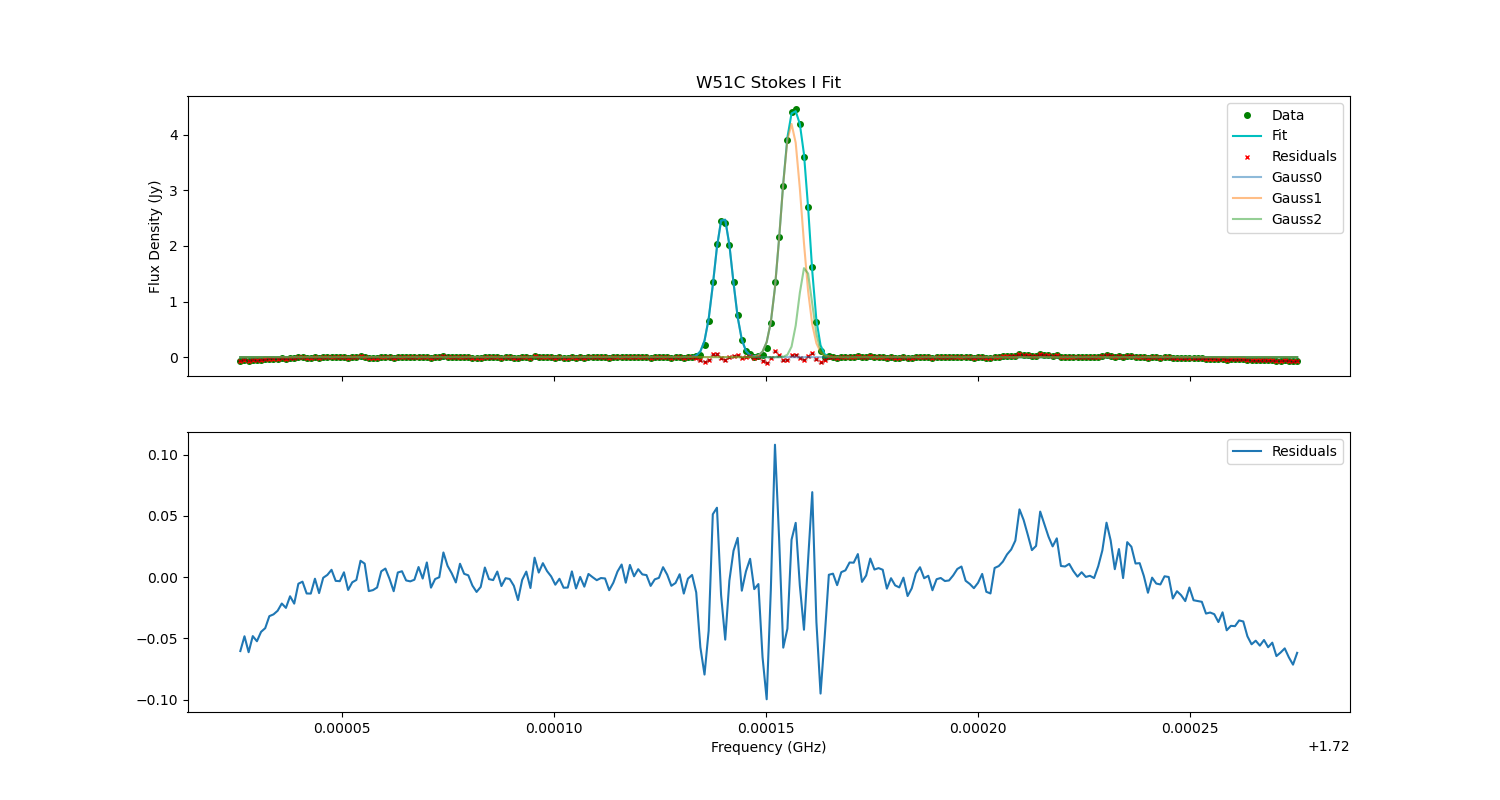
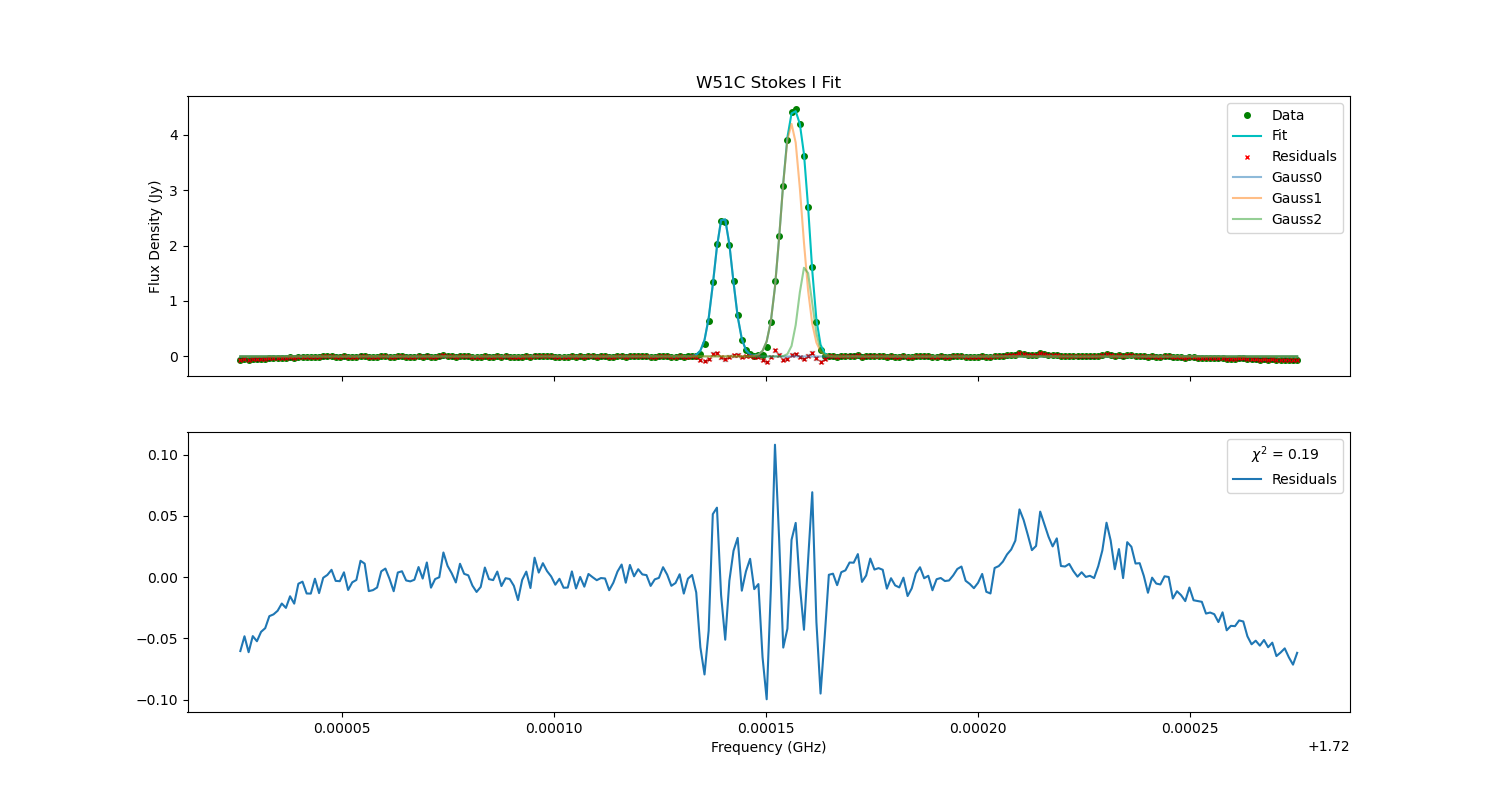
Finished Zeeman.py script

Changed region(s): [[0.1533, 0.4375, 0.8587, 0.4688], [0.828, 0.5625, 0.8893, 0.625]]

diff --git a/Zeeman.py b/Zeeman.py
@@ -5,7 +5,8 @@ parser.add_argument('pixel', type=int, nargs=2, help='Pixel coordinates of the r
 parser.add_argument('--mapping', type=int, nargs='+', help='Number of Gaussian components to fit each visible peak')
 parser.add_argument('--output', type=str, default=None, help='Output directory')
 parser.add_argument('--init', action='store_true', help='Visualize the position of initial guesses')
-parser.add_argument('--plot', action='store_true', help='Plot the results')
+parser.add_argument('--plotI', action='store_true', help='Plot individually the stokes I results')
+parser.add_argument('--plotV', action='store_true', help='Plot individually the stokes V results')
 # parser.add_argument('--verbose', action='store_true', help='Print out the results')
 parser.add_argument('--trace', action='store_true', help='Plot trace plots')
 parser.add_argument('--corner', action='store_true', help='Plot corner plots')
@@ -38,6 +39,8 @@ import numpy as np
 import matplotlib.pyplot as plt
 from astropy.io import fits
 from scipy.signal import find_peaks
+import arviz as az
+az.style.use("arviz-darkgrid")
 
 # Read information from FITS files
 I_hdu = fits.open(args.filename[0])
@@ -68,10 +71,12 @@ if args.output == None:
 else: 
     Path(args.output).mkdir(parents=True, exist_ok=True)
     cwd = args.output + '/'
+out_file = open(cwd + 'output.txt', 'w')
 
 guess = guess_gen(I, args.mapping)
 num = len(guess) // 3
-noise = np.std(np.concatenate((I[:int(guess[1] - guess[2])], I[int(guess[-2] + guess[-1]):])), ddof = 1)
+noise_I = np.std(np.concatenate((I[:int(guess[1] - 6*guess[2])], I[int(guess[-2] + 6*guess[-1]):])), ddof = 1)
+noise_V = np.std(np.concatenate((V[:int(guess[1] - 6*guess[2])], V[int(guess[-2] + 6*guess[-1]):])), ddof = 1)
 
 if(args.init):
     plt.plot(I)
@@ -82,6 +87,7 @@ if(args.init):
 import pymc as pm
 I_model = pm.Model()
 xs = np.arange(len(I))
+
 with I_model as model:
     xdata = pm.ConstantData("x", xs)
     # Priors for unknown model parameters
@@ -91,11 +97,20 @@ with I_model as model:
 
     gauss_sum = np.sum([amp[i] * pm.math.exp(-0.5 * ((xdata - mu[i]) / sigma[i]) ** 2) for i in range(num)], axis=0)
     # Likelihood (sampling distribution) of observations
-    likelihood = pm.Normal("y", mu=gauss_sum, observed=I, sigma=noise)
+    likelihood = pm.Normal("y", mu=gauss_sum, observed=I, sigma=noise_I)
 
     # inference
-    trace = pm.sample(draws=10_000, tune=5_000, cores = 24, chains = 24, discard_tuned_samples=False, step = pm.NUTS(),
+    trace = pm.sample(draws=10_000, tune=5_000, cores = 24, chains = 24, discard_tuned_samples=True, step = pm.NUTS(),
                       initvals={'amp': guess[0::3], 'mu': guess[1::3], 'sigma': guess[2::3]})
+
+if args.trace: 
+    axes = az.plot_trace(trace, compact=False);
+    fig = axes.ravel()[0].figure
+    fig.savefig(cwd + 'I_trace.png')
+
+if args.corner:
+    import corner
+    corner.corner(trace, quantiles=[0.16, 0.5, 0.84], show_titles=True, title_fmt = '.4e').savefig(cwd + 'I_corner.png');
 
 post = trace.posterior
 mean = post.mean(dim=["chain", "draw"])
@@ -112,16 +127,101 @@ axs[0].set(title=name + " Stokes I Fit", ylabel = "Flux Density (Jy)")
 axs[0].plot(x_axis, I, 'o', color = 'green', label = 'Data', markersize = 4)
 axs[0].plot(x_axis, model, label = 'Fit', color = 'c')
 axs[0].plot(x_axis, I - model, 'x', markersize = 3, color = 'red', label = 'Residuals')
-axs[0].errorbar(x_axis, I - model, yerr = 0.01, fmt = 'none', ecolor = 'k', elinewidth = 1, capsize = 2, alpha = 0.2)
+axs[0].errorbar(x_axis, I - model, yerr = noise_I, fmt = 'none', ecolor = 'k', elinewidth = 1, capsize = 2, alpha = 0.2)
 
 for i in range(num):
     axs[0].plot(x_axis, amp[i] * np.exp(-((x - mu[i]) ** 2) / (2 * sig[i] ** 2)), label = f'Gauss{i}', alpha = 0.5)
-    print('Amp:' , f"{amp[i]:.2f}", 'Center:', f"{mu[i]:.2f}", 'Width:', f"{sig[i]:.2f}", sep='\t') # Print to file
+    print('Amp:' , f"{amp[i]:.2f}", 'Center:', f"{mu[i]:.2f}", 'Width:', f"{sig[i]:.2f}", sep='\t', file=out_file) # Print to file
+    print('Amp:' , f"{amp[i]:.2f}", 'Center:', f"{mu[i]:.2f}", 'Width:', f"{sig[i]:.2f}", sep='\t')
 
 axs[0].legend()
 axs[1].plot(x_axis, (I - model), label = 'Residuals')
 axs[1].set(xlabel = "Frequency (GHz)")
-axs[1].legend()
+axs[1].legend(title=f'$\chi^2$ = {np.sum((I - model)**2):.2f}')
+print('Chi2:', np.sum((I - model)**2), file = out_file)
 print('Chi2:', np.sum((I - model)**2))
 fig.savefig(cwd + 'I_fit.png')
 I_fit = model
+
+stokesVmodel = pm.Model()
+compoments = np.array([amp[i] * np.exp(-0.5 * ((xs - mu[i]) / sig[i]) ** 2) for i in range(num)])
+
+with stokesVmodel as model:
+    Ifit = pm.Data("I", I_fit)
+    d_I = pm.Data("d_I", np.gradient(compoments, d_nu, axis = 1))
+    alpha = pm.Flat("alpha", shape = 1)
+    beta = pm.Flat("beta", shape = num)
+    V_fit = alpha * Ifit + pm.math.sum([beta[i] * d_I[i] for i in range(num)], axis=0)
+    V_likelihood = pm.Normal("V", mu=V_fit, observed=V, sigma=0.01)
+    
+    V_trace = pm.sample(draws=10_000, tune=5_000, cores = 24, chains = 24, discard_tuned_samples=True, step = pm.NUTS())
+
+if args.trace: 
+    axes = az.plot_trace(V_trace, compact=False);
+    fig = axes.ravel()[0].figure
+    fig.savefig(cwd + 'V_trace.png')
+
+if args.corner:
+    import corner
+    corner.corner(V_trace, quantiles=[0.16, 0.5, 0.84], show_titles=True, title_fmt = '.4e').savefig(cwd + 'V_corner.png');
+
+post = V_trace.posterior
+mean = post.mean(dim=["chain", "draw"])
+alpha = mean.alpha.values
+beta = mean.beta.values
+V_model = alpha * I_fit + np.sum([beta[i] * np.gradient(compoments, d_nu, axis = 1)[i] for i in range(num)], axis=0)
+
+fig, axs = plt.subplots(2, 1, figsize=(15, 8), sharex=True)
+axs[0].set(title=name + " Stokes V Fit", ylabel = "Flux Density (Jy)")
+axs[0].plot(x_axis, V - alpha * I_fit, 'o', color = 'green', label = 'Data', markersize = 4)
+axs[0].plot(x_axis, V_model - alpha * I_fit, label = 'Fit', color = 'r', linewidth = 2)
+# axs[0].plot(x_axis, V - V_model, 'x', markersize = 3, color = 'red', label = 'Residuals')
+axs[0].errorbar(x_axis, V - alpha * I_fit, yerr = noise_V, fmt = 'none', ecolor = 'k', elinewidth = 1, capsize = 2, alpha = 0.2)
+
+print(f'Alpha: {alpha[0]:.2f}')
+print(f'Alpha: {alpha[0]:.2f}', file=out_file)
+for i in range(num):
+    axs[0].plot(x_axis, beta[i] * np.gradient(compoments[i], d_nu), label = f'Beta{i}', alpha = 0.5)
+    print(f'Beta {i}: {beta[i]:.2f}', file=out_file) # Print to file
+    print(f'Beta {i}: {beta[i]:.2f}')
+
+axs[0].legend()
+axs[1].plot(x_axis, (V - V_model), label='Residuals')
+axs[1].set(xlabel = "Frequency (GHz)")
+axs[1].legend(title=f'$\chi^2$ = {np.sum((V - V_model)**2):.2f}')
+print('Chi2:', np.sum((V - V_model)**2))
+print('Chi2:', np.sum((V - V_model)**2), file=out_file)
+fig.savefig(cwd + 'V_fit.png')
+
+out_file.close()
+
+# Plot 4 panel figure
+fig, axs = plt.subplots(2, 2, figsize=(15, 10), sharex=True, sharey=False)
+axs[0][0].set(title=name + "  Stokes I Fit", ylabel = "Flux Density (Jy)")
+axs[0][0].plot(x_axis, I, 'o', color = 'green', label = 'Data', markersize = 4)
+axs[0][0].plot(x_axis, I_fit, label = 'Fit', color = 'r', linewidth = 2)
+axs[0][0].plot(x_axis, I - I_fit, 'x', markersize = 3, color = 'black', label = 'Residuals')
+axs[0][0].errorbar(x_axis, I, yerr = noise_I, fmt = 'none', ecolor = 'k', elinewidth = 1, capsize = 2, alpha = 0.2)
+
+for i in range(3):
+    axs[0][0].plot(x_axis, amp[i] * np.exp(-((x - mu[i]) ** 2) / (2 * sig[i] ** 2)), label = f'Gauss{i}', alpha = 0.5)
+
+axs[0][0].legend()
+axs[1][0].plot(x_axis, (I - I_fit), label = 'Residuals')
+axs[1][0].set(xlabel = "Frequency (GHz)")
+axs[1][0].legend(title=f'$\chi^2$ = {np.sum((I - I_fit)**2):.2f}')
+
+axs[0][1].set(title=name + " Stokes V Fit")
+axs[0][1].plot(x_axis, V - alpha * I_fit, 'o', color = 'green', label = 'Data', markersize = 4)
+axs[0][1].plot(x_axis, V_model - alpha * I_fit, label = 'Fit', color = 'r', linewidth = 2)
+axs[0][1].errorbar(x_axis, V - alpha * I_fit, yerr = noise_V, fmt = 'none', ecolor = 'k', elinewidth = 1, capsize = 2, alpha = 0.2)
+
+for i in range(num):
+    axs[0][1].plot(x_axis, beta[i] * np.gradient(compoments[i], d_nu), label = f'Beta{i}', alpha = 0.5)
+
+axs[0][1].legend()
+axs[1][1].plot(x_axis, (V - V_model), label = 'Residuals')
+axs[1][1].set(xlabel = "Frequency (GHz)")
+axs[1][1].legend(title=f'$\chi^2$ = {np.sum((V - V_model)**2):.2f}')
+
+fig.savefig(cwd + '4_panel.png')
